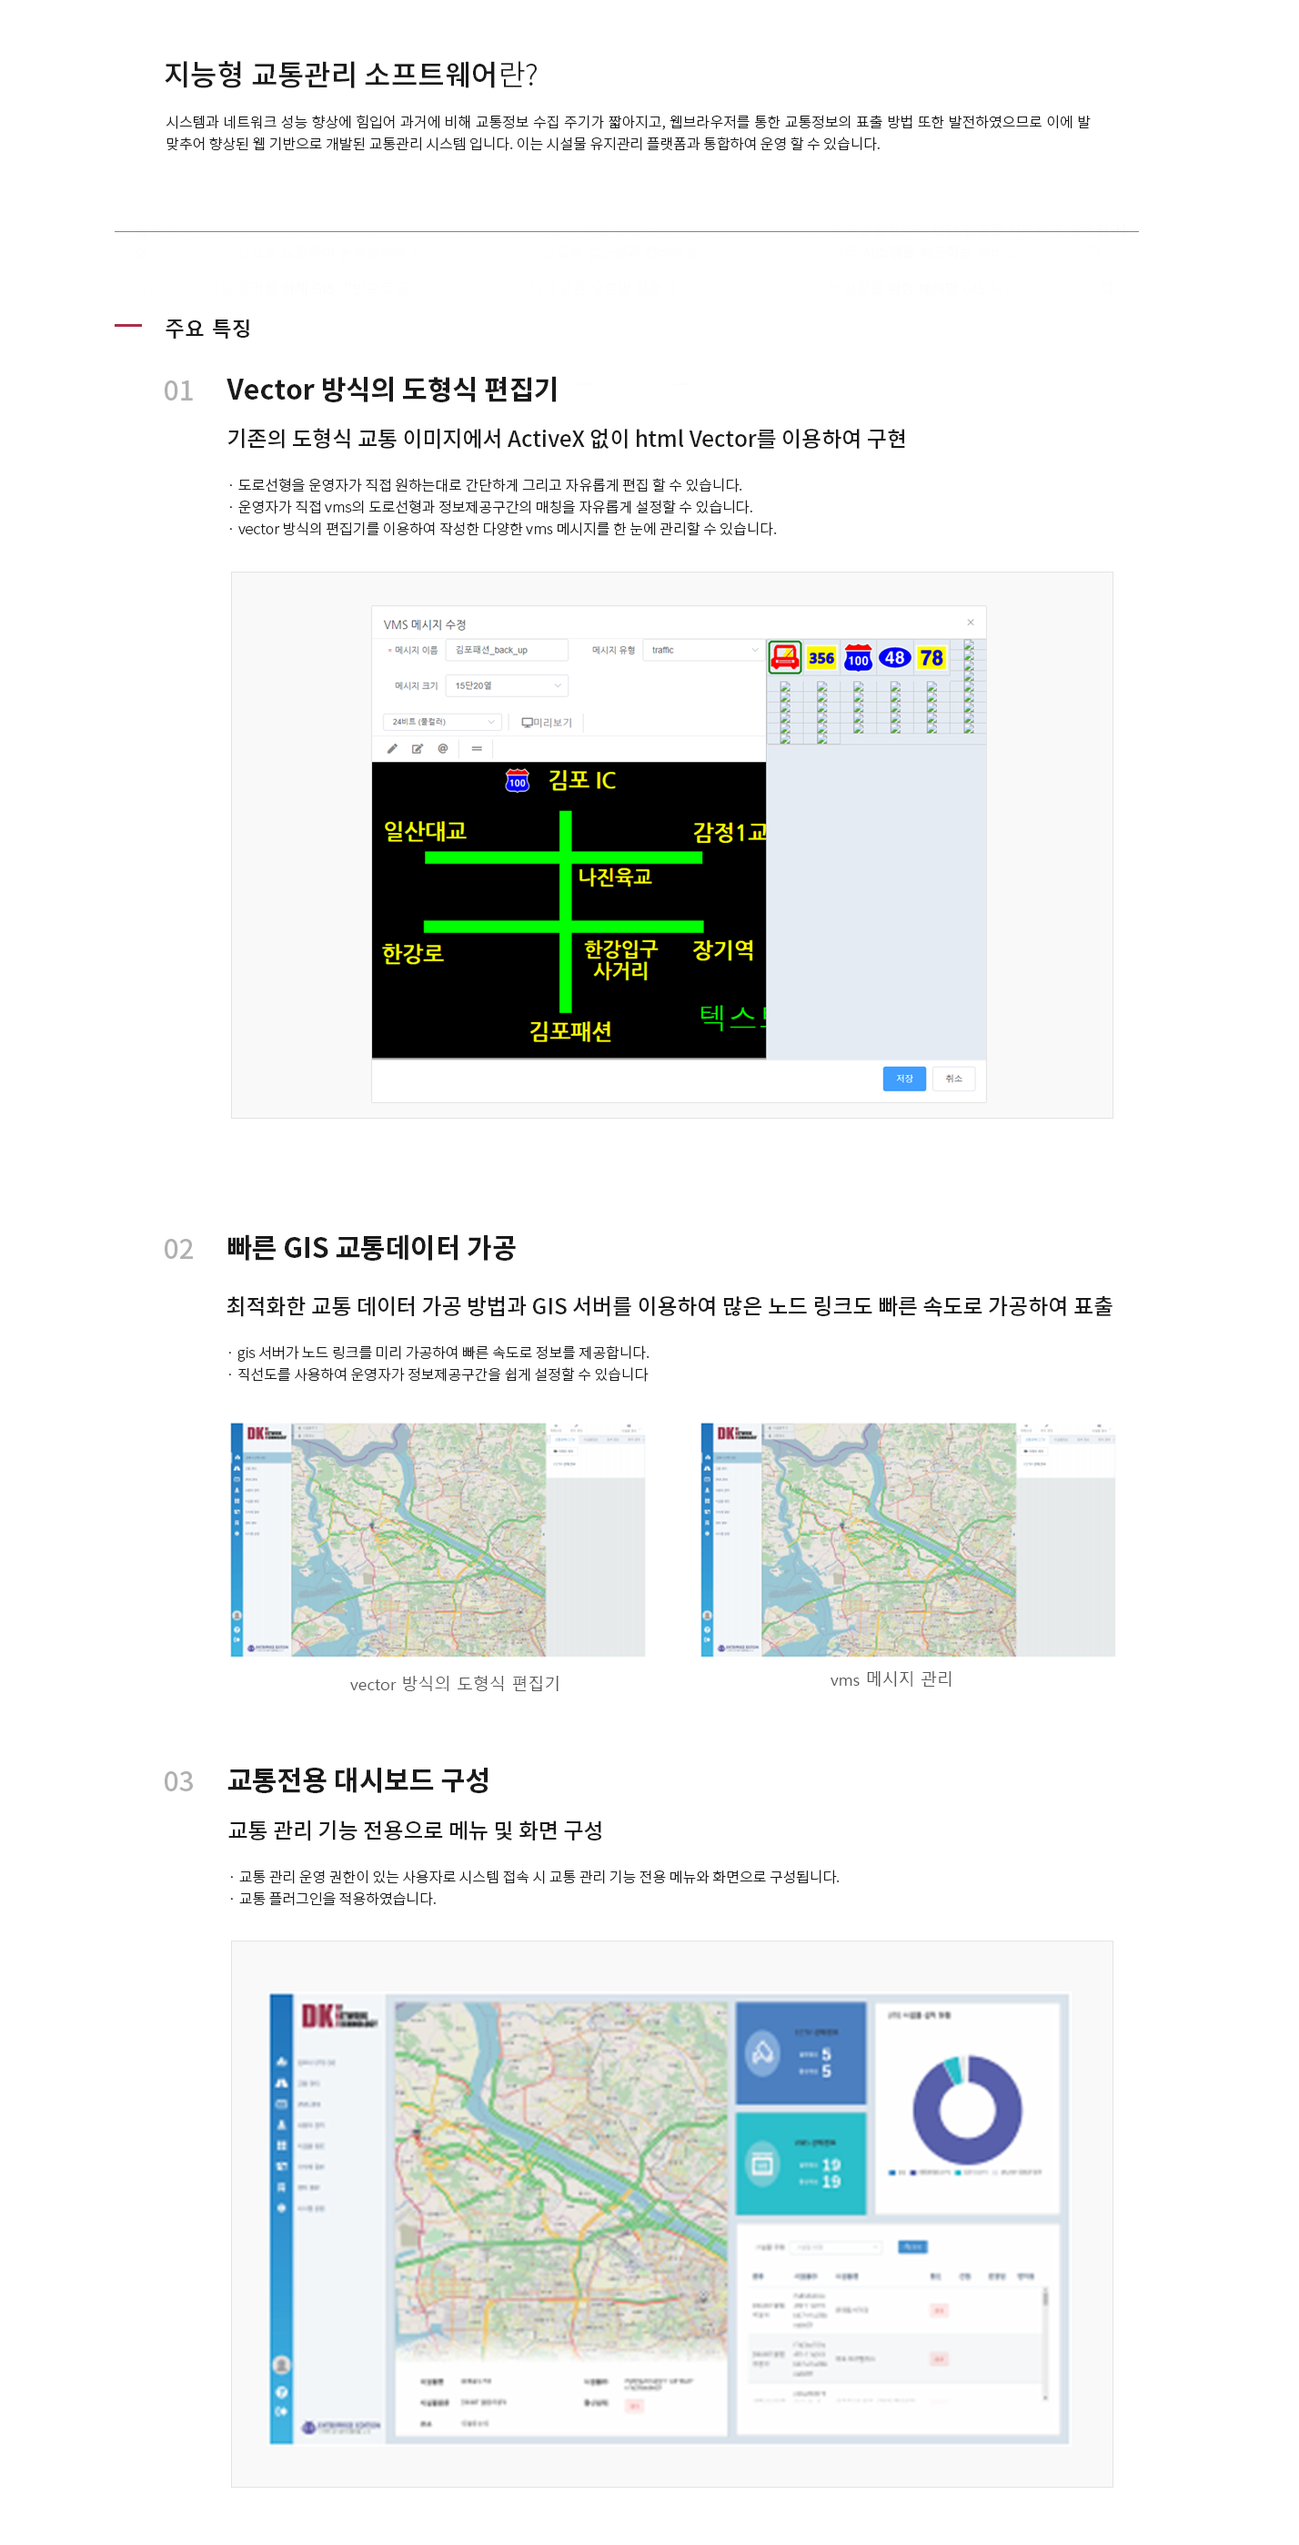
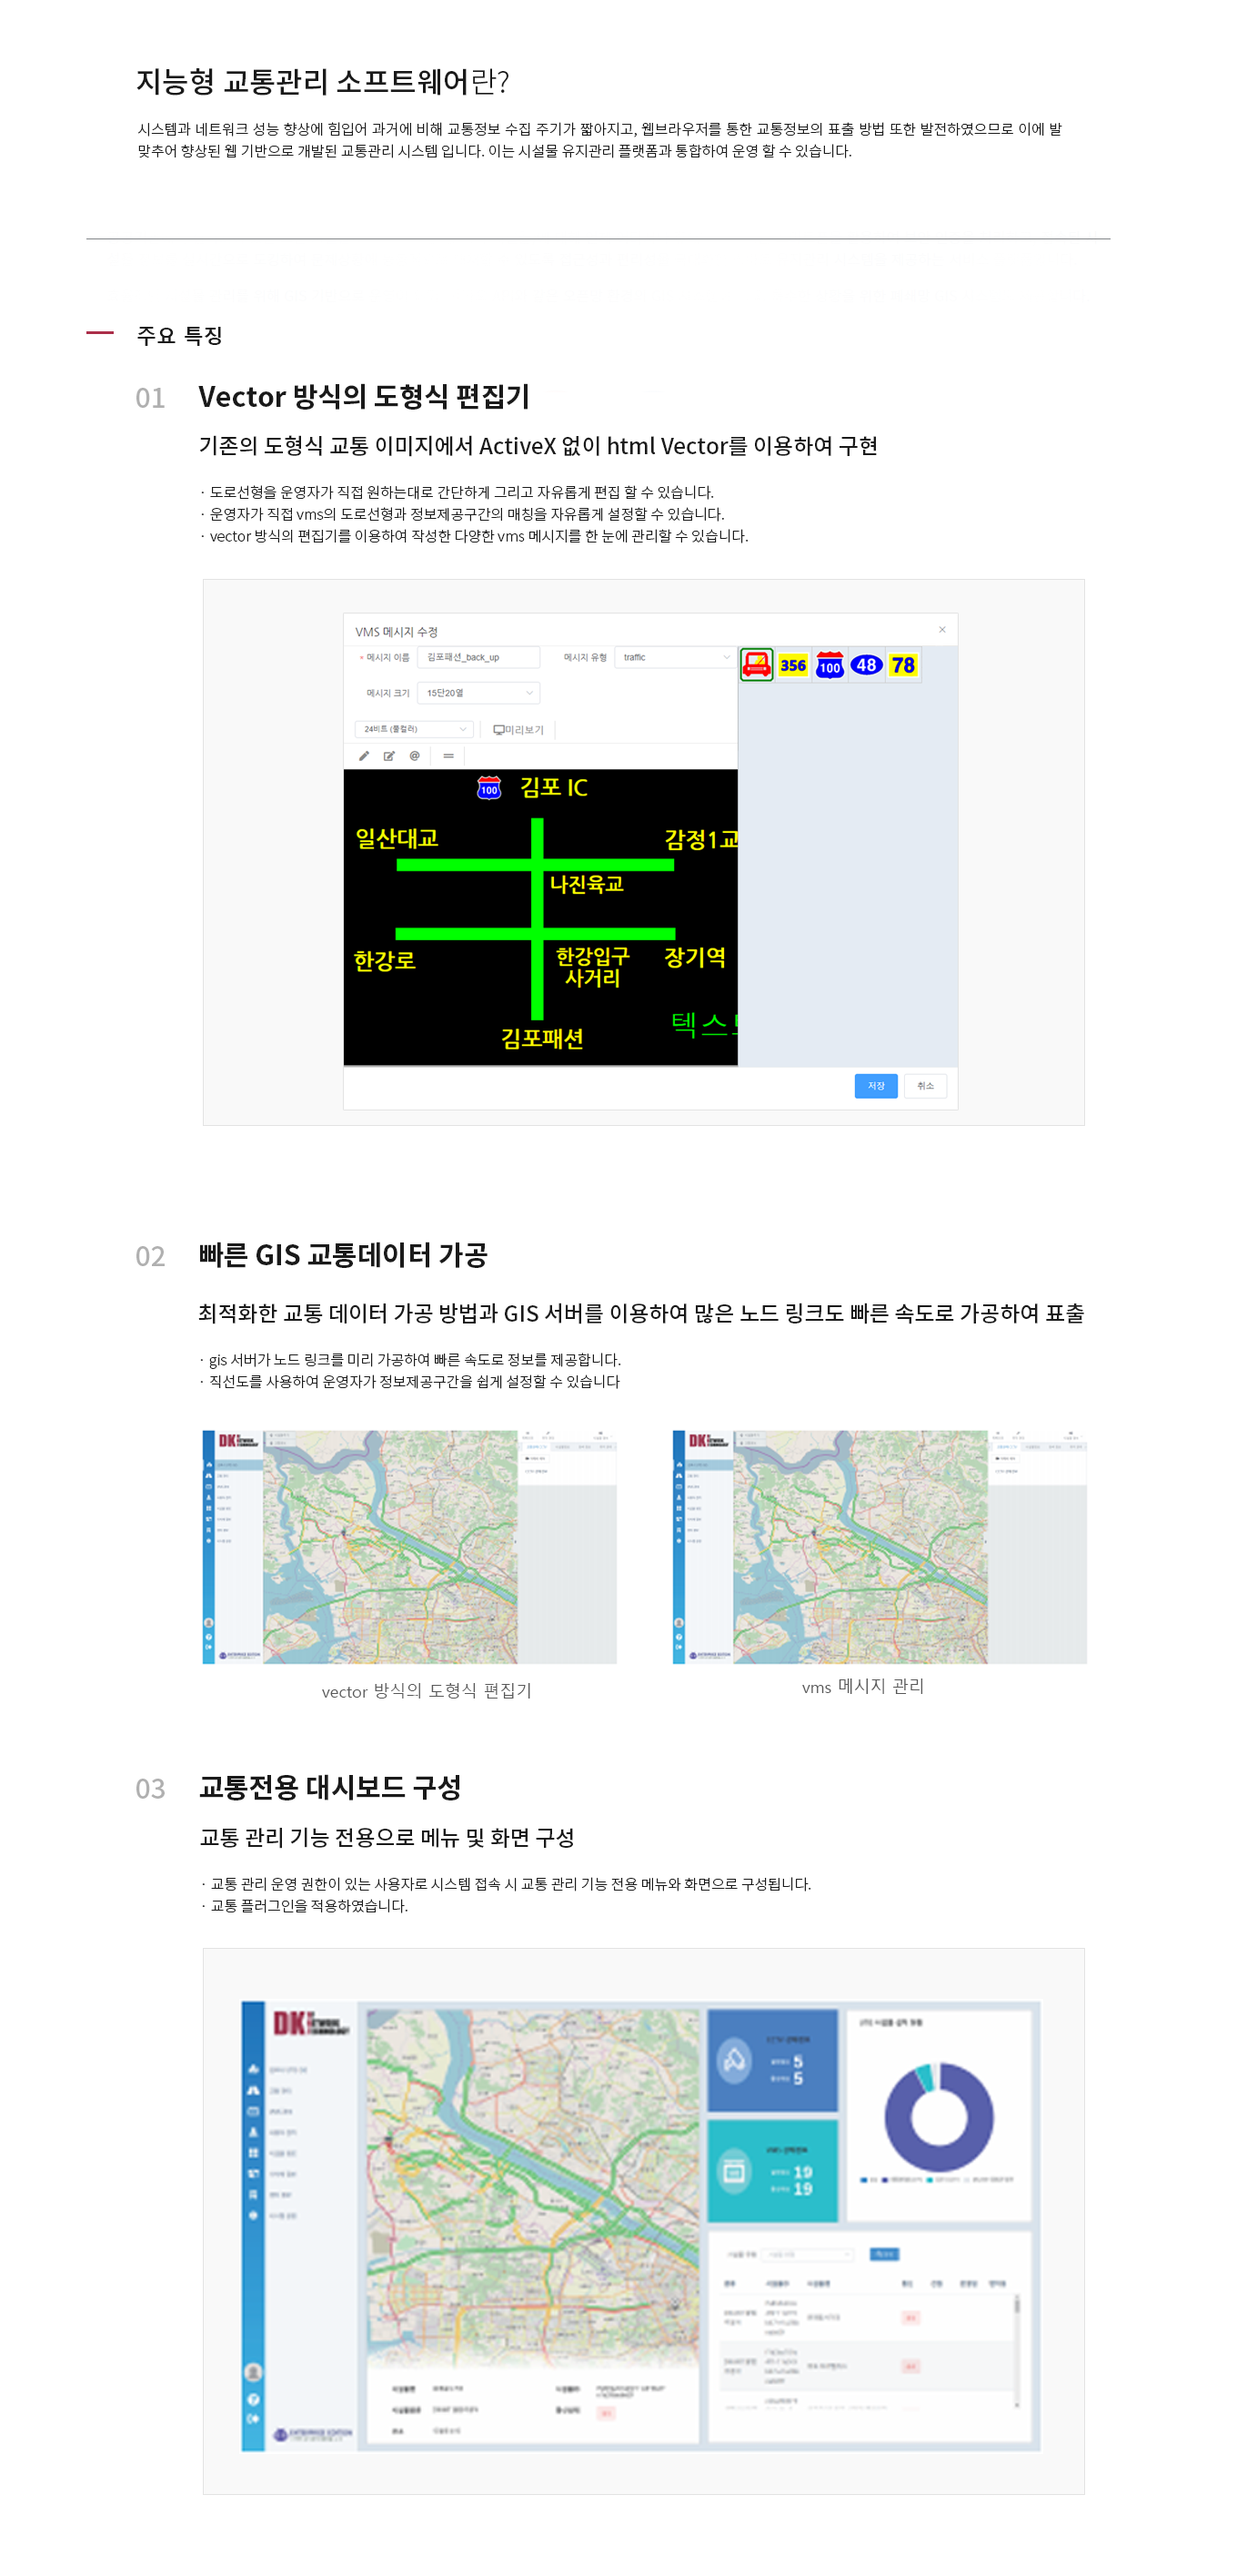
facesafe 관련 추가 및 수정 + 배너이미지 체인지 + 트래픽엑박이미지 수정

diff --git a/index.html b/index.html
@@ -20,8 +20,8 @@ layout: home
             <strong>스마트 유지관리 플랫폼</strong>
             <p>
               GIS로 표시할 수 있는 위치기반의 다양한 시설물들의 정보를 관리하고, 설치한 시설물의 효율적인 유지관리를 위한 기능을 제공하는 플랫폼입니다.
-            </p></a
-          >
+            </p>
+          </a>
         </div>
       </div>
       <div class="col-lg-6 col-md-6 col-12 business-img-list">
@@ -31,8 +31,8 @@ layout: home
         <div>
           <a href="{{ base_path }}/business/ipes/">
             <strong>불법주정차 무인단속시스템</strong>
-            <p>고정형 360도 회전 카메라에서 머신러닝을 이용한 차량인식과 번호인식 기술을 이용하여 불법주정차를 단속할 수 있는 시스템입니다.</p></a
-          >
+            <p>고정형 360도 회전 카메라에서 머신러닝을 이용한 차량인식과 번호인식 기술을 이용하여 불법주정차를 단속할 수 있는 시스템입니다.</p>
+          </a>
         </div>
       </div>
       <div class="col-lg-6 col-md-6 col-12 business-img-list">
@@ -43,8 +43,8 @@ layout: home
             <p>
               ActiveX, NPAPI 플러그인 없이 순수하게 웹으로만 개발되어, 교통정보를 관리하고 VMS, CCTV와 같은 교통시설물을 제어 할 수 있는 웹 기반 교통관리
               소프트웨어 입니다.
-            </p></a
-          >
+            </p>
+          </a>
         </div>
       </div>
       <div class="col-lg-6 col-md-6 col-12 business-img-list">
@@ -57,8 +57,8 @@ layout: home
             <p>
               방재, 환경, 방범, 교통등등 스마트시티의 다양한 end-service에 대응할 수 있는 다목적 플랫폼을 이용하여 통합서비스를 구축하는 스마트시티
               플랫폼입니다.
-            </p></a
-          >
+            </p>
+          </a>
         </div>
       </div>
       <div class="col-lg-6 col-md-6 col-12 business-img-list">
@@ -68,18 +68,18 @@ layout: home
         <div>
           <a href="{{ base_path }}/business/cctv/">
             <strong>CCTV 통합관제 플랫폼</strong>
-            <p>이기종의 CCTV관제시스템을 통합하고 녹화하여 관리할 수 있는 CCTV 플랫폼입니다.</p></a
-          >
+            <p>이기종의 CCTV관제시스템을 통합하고 녹화하여 관리할 수 있는 CCTV 플랫폼입니다.</p>
+          </a>
         </div>
       </div>
       <div class="col-lg-6 col-md-6 col-12 business-img-list">
         <a href="{{ base_path }}/business/timegram/">
-          <img src="/assets/images/timegram.png" />
+          <img src="/assets/images/facesafe.png" />
         </a>
         <div>
           <a href="{{ base_path }}/business/timegram/">
-            <strong>타임그램(애플리케이션)</strong>
-            <p>사용자의 일정과 시간을 가치있게 관리하기 위해 개발된 스케줄관리 스마트폰 앱입니다.</p>
+            <strong>FACE SAFE(AI 얼굴인식 시스템)</strong>
+            <p>다양한 AI 분석 기술 융합으로 객체에 대한 데이터를 최적의 시점에서 추출하여 다양한 분야에서 활용할 수 있는 시스템입니다. </p>
           </a>
         </div>
       </div>

diff --git a/_layouts/introduction.html b/_layouts/introduction.html
@@ -1,0 +1,54 @@
+<!DOCTYPE html>
+<html>
+
+<head>
+  {% include head.html %}
+</head>
+
+<body class="{{ page.layout | append: '-template' }}">
+  {% include sub_header.html %}
+
+  {% include business_banner.html %}
+  <main role="main">
+    <div class="dk-container">
+      <div class="info">
+        <div class="contact-left">
+          <h4>Contact Us</h4>
+          <ul>
+            <li><i class="icomoon icon-call"></i>&#43;82 2 459 7571</li>
+            <li><i class="icomoon icon-fax"></i>&#43;82 2 459 7572</li>
+            <li><i class="icomoon icon-message"></i>ydk@dkant.net</li>
+            <li><i class="icomoon icon-address"></i>서울특별시 강남구 광평로 47길 28 수서동, KT</li>
+          </ul>
+        </div>
+        <div class="contact-right">
+          <h4>Send A Message</h4>
+          <form id="contact-form" action="#" data-animate="fadeIn" data-animate-delay="0.4"
+            style="animation-delay: 0.4s;" class="animated animated-done">
+
+            <div class="form-group">
+              <label class="sr-only" for="contact-name">Name</label>
+              <input type="text" class="form-control form-control-transparent" id="contact-name" placeholder="Name">
+              <!-- <hr class="hr-inverse mx-auto mt-1 mb-0"> -->
+            </div>
+            <div class="form-group">
+              <label class="sr-only" for="contact-email">Email</label>
+              <input type="email" class="form-control form-control-transparent" id="contact-email" placeholder="Email">
+              <!-- <hr class="hr-inverse mx-auto mt-1 mb-0"> -->
+            </div>
+            <div class="form-group">
+              <label class="sr-only" for="contact-message">Message</label>
+              <textarea rows="5" class="form-control form-control-transparent" id="contact-message"
+                placeholder="Message"></textarea>
+              <!-- <hr class="hr-inverse mx-auto mt-1 mb-0"> -->
+            </div>
+            <input type="button" class="btn btn-lg btn-color" value="Send Message">
+          </form>
+        </div>
+      </div>
+    </div>
+  </main>
+</body>
+<style>
+
+</style>

diff --git a/introduction/contactus.html b/introduction/contactus.html
@@ -1,0 +1,50 @@
+---
+layout: page
+title: Contact Us
+permalink: /introduction/contactus
+sitemap: yes
+excerpt: contact us
+tags: []
+---
+
+<div class="dk-container">
+  <div class="info">
+    <div class="contact-left">
+      <h4>Contact Us</h4>
+      <ul>
+        <li><i class="icomoon icon-call"></i>&#43;82 2 459 7571</li>
+        <li><i class="icomoon icon-fax"></i>&#43;82 2 459 7572</li>
+        <li><i class="icomoon icon-message"></i>support@dkant.net</li>
+        <li><i class="icomoon icon-address"></i>서울특별시 강남구 광평로 47길 28 수서동, KT</li>
+      </ul>
+    </div>
+    <div class="contact-right">
+      <h4>Send A Message</h4>
+      <form id="contact-form" action="mailto:support@dkant.net" method="post" enctype="text/plain" data-animate="fadeIn"
+        data-animate-delay="0.4" style="animation-delay: 0.4s;" class="animated animated-done">
+        <div class="form-group">
+          <label class="sr-only" for="contact-name">Name</label>
+          <input type="text" class="form-control form-control-transparent" id="contact-name" placeholder="Name">
+          <!-- <hr class="hr-inverse mx-auto mt-1 mb-0"> -->
+        </div>
+        <div class="form-group">
+          <label class="sr-only" for="contact-email">Email</label>
+          <input type="email" class="form-control form-control-transparent" id="contact-email" placeholder="Email">
+          <!-- <hr class="hr-inverse mx-auto mt-1 mb-0"> -->
+        </div>
+        <div class="form-group">
+          <label class="sr-only" for="contact-message">Message</label>
+          <textarea rows="5" class="form-control form-control-transparent" id="contact-message"
+            placeholder="Message"></textarea>
+          <!-- <hr class="hr-inverse mx-auto mt-1 mb-0"> -->
+        </div>
+        <input type="submit" class="btn btn-lg btn-color" value="Send Message">
+      </form>
+    </div>
+  </div>
+</div>
+
+
+<style>
+
+</style>

diff --git a/_includes/sub_header.html b/_includes/sub_header.html
@@ -14,18 +14,18 @@
             </button>
             <div class="collapse navbar-collapse" id="navbarsExampleDefault">
               <ul class="navbar-nav mr-auto">
-                <li class="nav-item {% if page.url == '/contactus/' %} active {% endif %}">
-                  <a class="nav-link" href="{{ base_path }}/contactus/">회사소개</a>
+                <li class="nav-item {% if page.url == '/introduction/' %} active {% endif %}">
+                  <a class="nav-link" href="{{ base_path }}/introduction/introduce/" style="color: #fff;">회사소개</a>
                 </li>
                 <li class="nav-item {% if page.url == '/business/' %} active {% endif %}">
-                  <a class="nav-link" href="{{ base_path }}/business/fclt/">사업소개</a>
+                  <a class="nav-link" href="{{ base_path }}/business/fclt/" style="color: #fff;">사업소개</a>
                 </li>
                 <li class="nav-item {% if page.url == '/business/' %} active {% endif %}">
-                  <a class="nav-link" href="{{ base_path }}/product/led/">제품소개</a>
+                  <a class="nav-link" href="{{ base_path }}/product/led/" style="color: #fff;">제품소개</a>
                 </li>
                 <li
                   class="nav-item {% if page.url == '/' %} {% elsif page.url == '/business/' %} {% elsif page.url == '/contactus/' %} {% else %} active {% endif %}">
-                  <a class="nav-link" href="{{ base_path }}/technote/">테크노트</a>
+                  <a class="nav-link" href="{{ base_path }}/technote/" style="color: #fff;">테크노트</a>
                 </li>
               </ul>
             </div>

diff --git a/_includes/header.html b/_includes/header.html
@@ -15,18 +15,18 @@
             </button>
             <div class="collapse navbar-collapse" id="navbarsExampleDefault">
               <ul class="navbar-nav mr-auto">
-                <li class="nav-item {% if page.url == '/contactus/' %} active {% endif %}">
-                  <a class="nav-link" href="{{ base_path }}/contactus/">회사소개</a>
+                <li class="nav-item {% if page.url == '/introduction/' %} active {% endif %}">
+                  <a class="nav-link " href="{{ base_path }}/introduction/introduce/" style="color: #fff;">회사소개</a>
                 </li>
                 <li class="nav-item {% if page.url == '/business/' %} active {% endif %}">
-                  <a class="nav-link" href="{{ base_path }}/business/fclt/">사업소개</a>
+                  <a class="nav-link " href="{{ base_path }}/business/fclt/" style="color: #fff;">사업소개</a>
                 </li>
                 <li class="nav-item {% if page.url == '/product/' %} active {% endif %}">
-                  <a class="nav-link" href="{{ base_path }}/product/led/">제품소개</a>
+                  <a class="nav-link " href="{{ base_path }}/product/led/" style="color: #fff;">제품소개</a>
                 </li>
                 <li
                   class="nav-item {% if page.url == '/' %} {% elsif page.url == '/business/' %} {% elsif page.url == '/contactus/' %} {% else %} active {% endif %}">
-                  <a class="nav-link" href="{{ base_path }}/technote/">테크노트</a>
+                  <a class="nav-link " href="{{ base_path }}/technote/" style="color: #fff;">테크노트</a>
                 </li>
 
               </ul>

diff --git a/_layouts/business.html b/_layouts/business.html
@@ -41,6 +41,11 @@
             href="{{ base_path }}/business/cctv/">
             CCTV 통합관제 플랫폼</a>
         </li>
+        <li class="nav-item">
+          <a class="nav-link {% if page.url contains '/business/facesafe/' %} active {% endif %}" id="business-tab-5"
+            href="{{ base_path }}/business/facesafe/">
+            Face Safe</a>
+        </li>
         <!-- <li class="nav-item">
             <a class="nav-link {% if page.url contains '/business/timegram/' %} active {% endif %}" id="business-tab-6"  href="{{ base_path }}/business/timegram/" >
               타임그램(애플리케이션)</a>

diff --git a/business/facesafe.html b/business/facesafe.html
@@ -1,0 +1,13 @@
+---
+layout: business
+title: 타임그램(애플리케이션)
+permalink: /business/facesafe/
+sitemap: yes
+excerpt: 타임그램(애플리케이션)
+image: /assets/images/smartcity-img.png
+id: smartcity
+---
+
+<div>
+    <img src="/assets/images/business-facesafe.png" style="width: 100%;" />
+</div>

diff --git a/assets/css/dk-style-v2.css b/assets/css/dk-style-v2.css
@@ -1471,7 +1471,7 @@ ol {
   border-bottom: none !important;
 }
 .nav-link {
-  color: #9c9c9c !important;
+  color: #ad9292 ;
 }
 .nav-link.active {
   border: none !important;
@@ -1483,3 +1483,5 @@ ol {
   color: #00223e !important;
   font-weight: 600;
 }
+
+

diff --git a/introduction/introduce.html b/introduction/introduce.html
@@ -1,0 +1,19 @@
+---
+layout: page
+title: Contact Us
+permalink: /introduction/introduce
+sitemap: yes
+excerpt: contact us
+tags: []
+---
+
+<div class="dk-container">
+    <div>
+        adfsdf
+    </div>
+</div>
+
+
+<style>
+
+</style>
